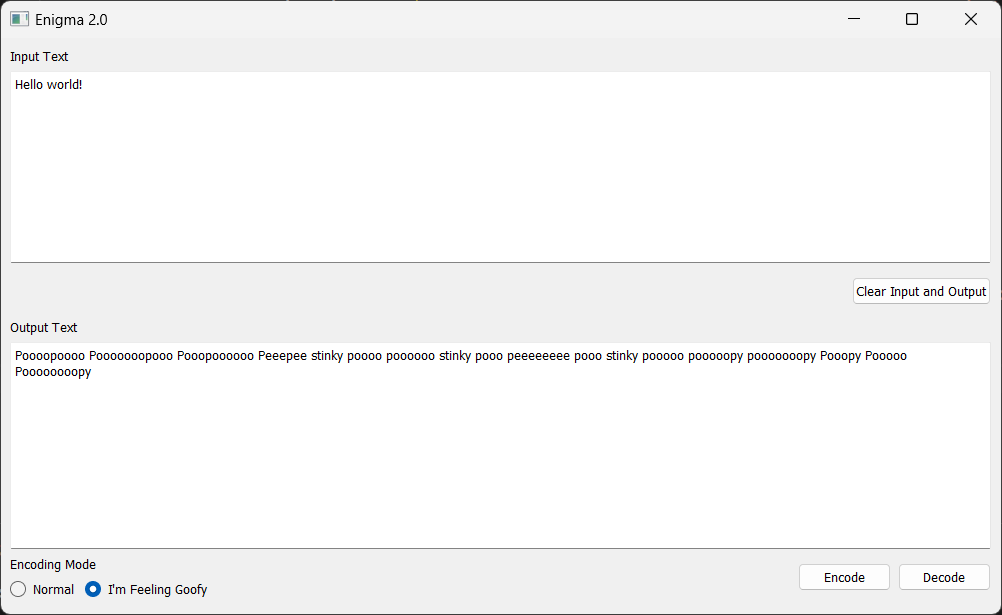
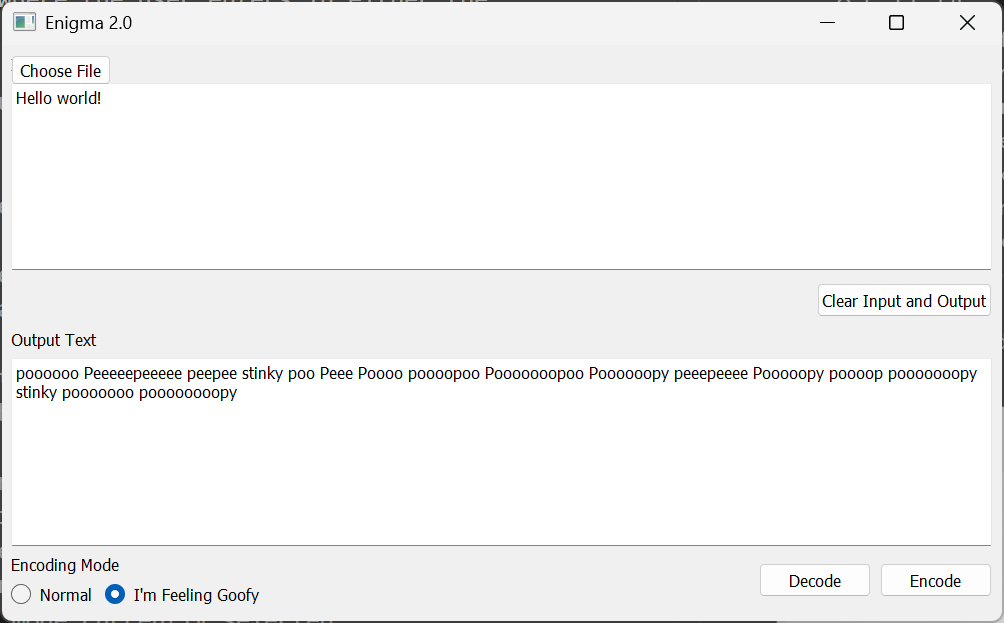
Update readme

diff --git a/README.md b/README.md
@@ -23,10 +23,11 @@ This section will explain the items in the GUI.
     * **Note:** When decoding, make sure the correct mode is selected, matching the mode used when encoding the cyphertext. Mode should be evident through cyphertext.
 * Encode Button - encodes the text currently in the Input Text Box, using the mode currently selected.
 * Decode Button - decodes the text currently in the Input Text Box, using the mode currently selected.
+* Choose File Button - allows you to use a text file as input.
 
 ![Image of GUI](/images/gui_used.png)
 
 If you'd like to see an example of what the "I'm Feeling Goofy" mode outputs, take a look at /images/goofy.png ***(SPOILER ALERT!)***.
 
 ## Changelog
-Last updated 8/28/2024 by Jason Chen
+Last updated 12/20/1015 by Jason Chen
